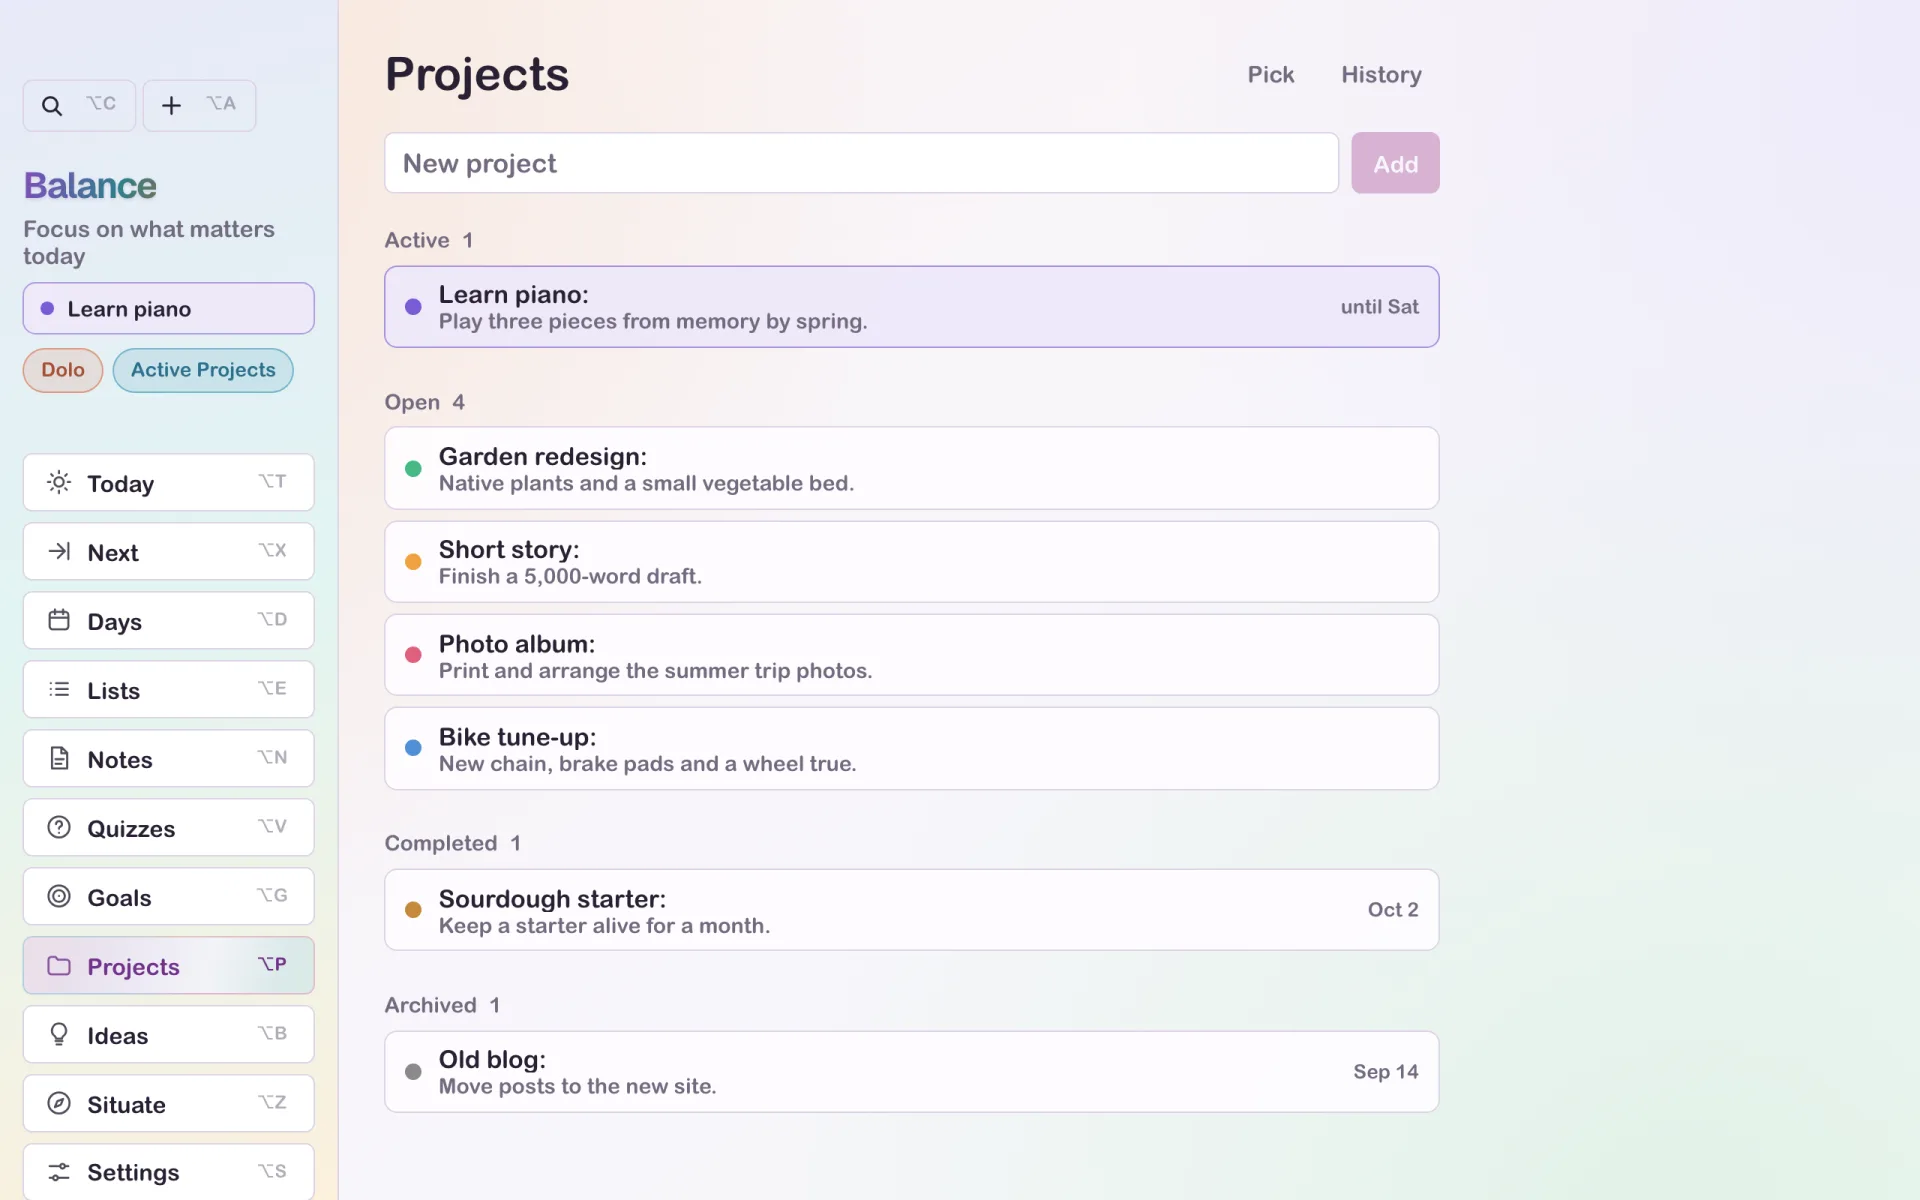
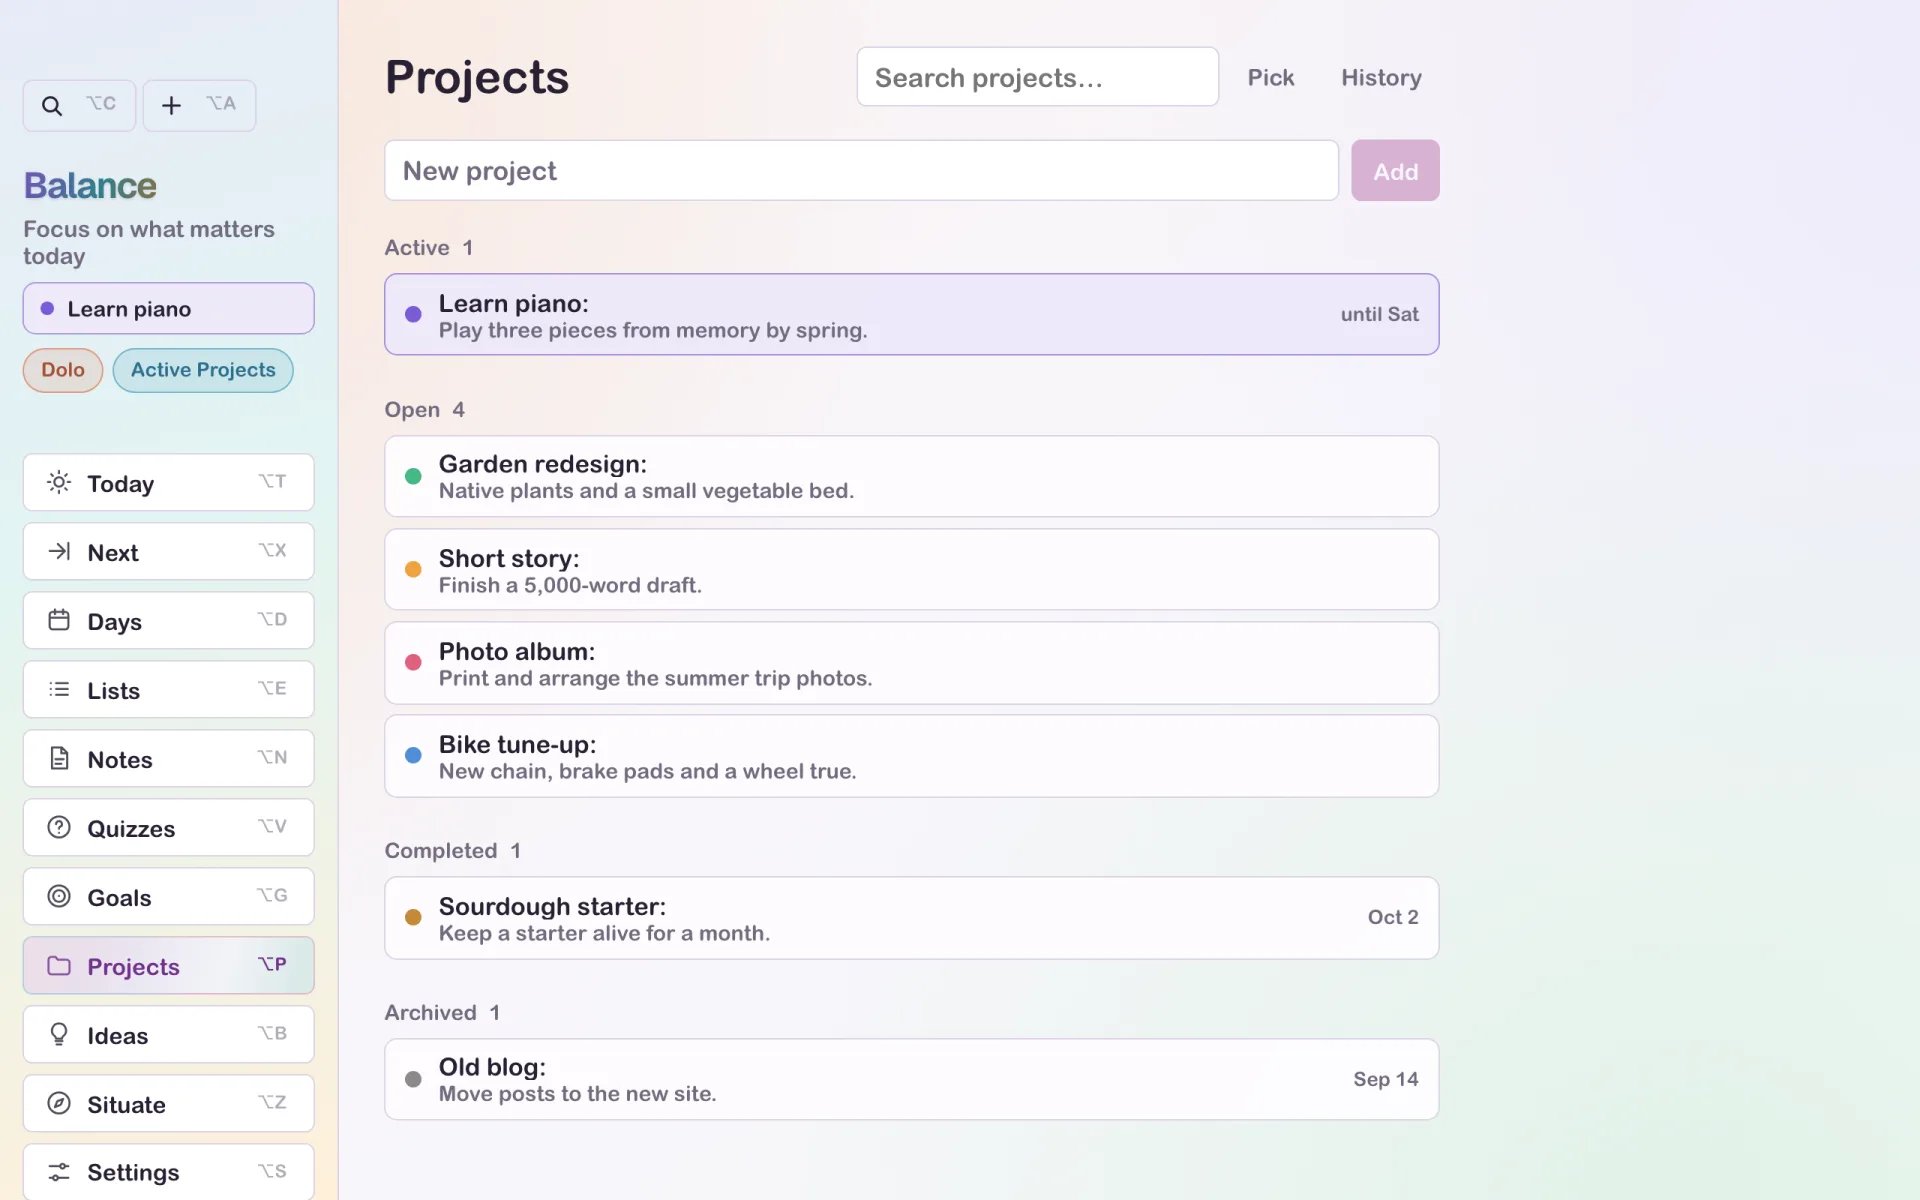
Add search to the Projects page
Filters every section by project name or description, like the Goals
search, with an empty state that clears it. Following a project link
clears the search so the linked project shows.

diff --git a/src/lib/ProjectsPanel.svelte b/src/lib/ProjectsPanel.svelte
@@ -12,7 +12,7 @@
   import RichTextEditor from './RichTextEditor.svelte'
   import { showCaretOnResize } from './showCaretOnResize'
   import { escapeHTML, htmlToPlainTextWithBreaks, sanitizeInlineHTML, type ItemLink } from './planner'
-  import { isProjectActive, isProjectOpen, PROJECT_ACTIVE_DAY_COUNTS } from './projects'
+  import { filterProjectsByPhrase, isProjectActive, isProjectOpen, PROJECT_ACTIVE_DAY_COUNTS } from './projects'
   export let projects: Project[] = []
   export let linkedProjectId = ''
   // Refreshed by the app each minute so active projects lapse on time.
@@ -31,11 +31,14 @@
   let pickingDays = false
   let highlightedId = ''
   let highlightTimer: ReturnType<typeof setTimeout> | undefined
-  $: open = projects.filter(isProjectOpen)
+  let search = ''
+  $: searching = Boolean(search.trim())
+  $: shown = filterProjectsByPhrase(projects, search)
+  $: open = shown.filter(isProjectOpen)
   $: active = open.filter((project) => isProjectActive(project, now))
   $: inactive = open.filter((project) => !active.includes(project))
-  $: completed = projects.filter((project) => !project.archived && project.completedAt).sort((a, b) => b.completedAt!.localeCompare(a.completedAt!))
-  $: archived = projects.filter((project) => project.archived).sort((a, b) => (b.archivedAt ?? '').localeCompare(a.archivedAt ?? ''))
+  $: completed = shown.filter((project) => !project.archived && project.completedAt).sort((a, b) => b.completedAt!.localeCompare(a.completedAt!))
+  $: archived = shown.filter((project) => project.archived).sort((a, b) => (b.archivedAt ?? '').localeCompare(a.archivedAt ?? ''))
   $: details = projects.find((project) => project.id === detailsId)
   $: detailsActive = details ? active.includes(details) : false
   $: if (detailsId && !details) closeDetails()
@@ -57,6 +60,8 @@
 
   $: if (linkedProjectId) void reveal(linkedProjectId)
   async function reveal(id: string) {
+    // A search could be hiding the linked project.
+    search = ''
     await tick()
     document.getElementById(`project-${id}`)?.scrollIntoView({ block: 'center', behavior: 'smooth' })
     await highlight(id)
@@ -137,6 +142,7 @@
   <header class="page-header projects-header">
     <h2>Projects</h2>
     <div class="projects-header-actions">
+      <input class="projects-search" type="search" aria-label="Search projects" placeholder="Search projects…" bind:value={search} />
       <button class="ghost" type="button" on:click={onPick}>Pick</button>
       <button class="ghost" type="button" on:click={onShowHistory}>History</button>
     </div>
@@ -171,12 +177,18 @@
       <div class="project-list" use:projectReordering={openProject}>{#each active as project (project.id)}<ProjectCard {project} active note={`until ${weekday(project.activeUntil!)}`} highlighted={highlightedId === project.id} onOpen={openProject} />{/each}</div>
     </section>
   {/if}
-  {#if inactive.length || !active.length}
+  {#if inactive.length || (!active.length && !searching)}
     <section class="project-section" aria-labelledby="open-projects-title">
       <h3 id="open-projects-title">Open <span class="count">{inactive.length}</span></h3>
       <div class="project-list" use:projectReordering={openProject}>{#each inactive as project (project.id)}<ProjectCard {project} highlighted={highlightedId === project.id} onOpen={openProject} />{/each}</div>
       {#if !open.length}<p class="muted">None.</p>{/if}
     </section>
+  {/if}
+  {#if searching && !shown.length}
+    <div class="projects-no-match">
+      <p class="muted">No projects match “{search.trim()}”.</p>
+      <button class="ghost" type="button" on:click={() => search = ''}>Clear search</button>
+    </div>
   {/if}
   {#if completed.length}
     <section class="project-section" aria-labelledby="completed-projects-title">
@@ -273,7 +285,15 @@
   .page-header h2 { margin: 0; }
   .projects-header { display: flex; align-items: center; justify-content: space-between; gap: 8px; }
   .projects-header button { font-size: 14px; padding: 6px 10px; }
-  .projects-header-actions { display: flex; gap: 6px; }
+  .projects-header-actions { display: flex; align-items: center; justify-content: flex-end; flex: 1 1 auto; gap: 6px; min-width: 0; }
+  .projects-search { flex: 0 1 220px; min-width: 0; min-height: 34px; }
+  @media (max-width: 760px) {
+    .projects-header:not(.history-header) { align-items: stretch; }
+    .projects-search { flex-grow: 1; }
+  }
+  .projects-no-match { display: flex; flex-wrap: wrap; align-items: center; gap: 8px; }
+  .projects-no-match p { margin: 0; }
+  .projects-no-match button { font-size: 14px; padding: 6px 10px; }
   .history-header { justify-content: flex-start; }
   .projects-back { padding-left: 8px; }
   .projects-back span { margin-right: 4px; font-size: 1.3em; line-height: 0.8; }

diff --git a/tests/unit/projects.spec.ts b/tests/unit/projects.spec.ts
@@ -1,5 +1,5 @@
 import { expect, test } from '@playwright/test'
-import { activeProjects, endedProjectsOn, historyDayHeading, needsProjectPick, nextProjectExpiry, outgoingHistoryDay, periodDays, periodFromDays, projectActiveUntil, projectActiveUntilOn, projectHistory, projectHistoryNoteDay, projectHistoryNoteId, projectHistoryPeriods, projectStartOn, templateForGeneration, withActiveUntil } from '../../src/lib/projects'
+import { activeProjects, endedProjectsOn, filterProjectsByPhrase, historyDayHeading, needsProjectPick, nextProjectExpiry, outgoingHistoryDay, periodDays, periodFromDays, projectActiveUntil, projectActiveUntilOn, projectHistory, projectHistoryNoteDay, projectHistoryNoteId, projectHistoryPeriods, projectStartOn, templateForGeneration, withActiveUntil } from '../../src/lib/projects'
 import type { DailyTemplate, Project, TemplateItem } from '../../src/lib/types'
 
 const project = (patch: Partial<Project> = {}): Project => ({ id: 'project', name: 'Project', description: '', color: '#336699', archived: false, createdAt: '', updatedAt: '', ...patch })
@@ -23,6 +23,16 @@ test('only open projects within their active window are active', () => {
   ]
   expect(activeProjects(projects, now).map(({ id }) => id)).toEqual(['active', 'soon'])
   expect(nextProjectExpiry(projects, now)).toBe(Date.parse('2026-10-20T13:00:00Z'))
+})
+
+test('project search matches names and descriptions, ignoring case and outer spaces', () => {
+  const projects = [
+    project({ id: 'name', name: 'Synthetic Garden' }),
+    project({ id: 'description', name: 'Other', description: 'Plant the garden beds' }),
+    project({ id: 'miss', name: 'Unrelated' }),
+  ]
+  expect(filterProjectsByPhrase(projects, '  GARDEN ').map(({ id }) => id)).toEqual(['name', 'description'])
+  expect(filterProjectsByPhrase(projects, ' ')).toBe(projects)
 })
 
 test('gated day rows and their children drop out while a project is active at noon on the day', () => {

diff --git a/tests/visual/projects.spec.ts b/tests/visual/projects.spec.ts
@@ -976,3 +976,29 @@ test('the Projects page opens the project pick on demand', async ({ page }) => {
   expect(projects.find((project: any) => project.name === 'Synthetic picked').activeUntil).toBe('2026-09-10T14:00:00.000Z')
   await expect(page.locator('.project-card.active')).toHaveText(/Synthetic picked/)
 })
+
+test('searching projects filters every section by name or description', async ({ page }) => {
+  await page.goto('/')
+  await openView(page, 'Projects')
+  await addProject(page, 'Synthetic garden')
+  await addProject(page, 'Synthetic shed')
+  await addProject(page, 'Synthetic fence')
+  await page.locator('.project-card', { hasText: 'Synthetic shed' }).click()
+  const details = page.getByRole('dialog', { name: 'Synthetic shed details', exact: true })
+  await details.getByRole('textbox', { name: 'Description' }).fill('Store the garden tools')
+  await details.getByRole('button', { name: 'Complete', exact: true }).click()
+  await expect(details).toHaveCount(0)
+
+  const search = page.getByRole('searchbox', { name: 'Search projects' })
+  const names = page.locator('.project-card .project-name')
+  await search.fill('GARDEN')
+  await expect(names).toHaveText(['Synthetic garden', 'Synthetic shed:'])
+  await expect(page.locator('.project-section h3')).toHaveText(['Open 1', 'Completed 1'])
+
+  await search.fill('absent')
+  await expect(names).toHaveCount(0)
+  await expect(page.locator('.project-section')).toHaveCount(0)
+  await page.getByRole('button', { name: 'Clear search', exact: true }).click()
+  await expect(search).toHaveValue('')
+  await expect(names).toHaveText(['Synthetic fence', 'Synthetic garden', 'Synthetic shed:'])
+})

diff --git a/src/lib/projects.ts b/src/lib/projects.ts
@@ -21,6 +21,13 @@ export function isProjectActive(project: Project, now = Date.now()): boolean {
   return isProjectOpen(project) && Boolean(project.activeUntil) && Date.parse(project.activeUntil!) > now
 }
 
+// Matches a phrase in a project's name or description, ignoring case.
+export function filterProjectsByPhrase(projects: Project[], query: string): Project[] {
+  const phrase = query.trim().toLocaleLowerCase()
+  if (!phrase) return projects
+  return projects.filter((project) => project.name.toLocaleLowerCase().includes(phrase) || project.description.toLocaleLowerCase().includes(phrase))
+}
+
 export function activeProjects(projects: Project[], now = Date.now()): Project[] {
   return projects.filter((project) => isProjectActive(project, now))
 }
